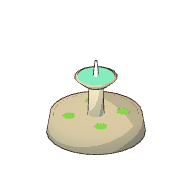
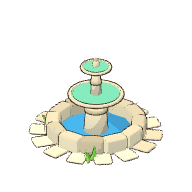
Ferme : nouvelle icône de la fontaine

Changed region(s): [[0.125, 0.2812, 0.875, 0.875]]

diff --git a/site/ferme/js/09-modeles.js b/site/ferme/js/09-modeles.js
@@ -165,7 +165,7 @@ const draco = new T.DRACOLoader(); draco.setDecoderPath('https://cdn.jsdelivr.ne
 const chargerGlbUneFois = (url) => new Promise((ok, ko) => chargeur.load(url, (gl) => ok(gl.scene), undefined, ko));
 const chargerGlb = (url, essais = 3) => chargerGlbUneFois(url).catch((e) => (essais > 1 ? new Promise((r) => setTimeout(r, 800)).then(() => chargerGlb(url, essais - 1)) : Promise.reject(e))); /* (trois essais : un modele rate ne fait plus planter le jeu plus tard, 16/10/2026) */
 const MODELES = {};
-const VERSION_MODELES = '20261101b'; /* a changer a chaque nouvel export des modeles : sinon le navigateur garde les anciens en cache */
+const VERSION_MODELES = '20261101c'; /* a changer a chaque nouvel export des modeles : sinon le navigateur garde les anciens en cache */
 /* un modele tire d'une planche : on le recentre, on le remet droit, on l'ajuste a la taille voulue (pied au sol, centre en 0) */
 /* comme gabarit, mais a une echelle donnee et centre sur un point donne (non mis a l'echelle) : les 5 niveaux d'un batiment gardent la meme echelle,
    le niveau 1 a la taille d'avant et les suivants grandissent vraiment */

diff --git a/site/ferme/index.html b/site/ferme/index.html
@@ -95,7 +95,7 @@
 <script src="js/06-temps.js?v=45bc8f81b4"></script>
 <script src="js/07-actions.js?v=e403b79966"></script>
 <script src="js/08-scene.js?v=a9f80b8661"></script>
-<script src="js/09-modeles.js?v=9d9c6681e5"></script>
+<script src="js/09-modeles.js?v=6f1c294a3d"></script>
 <script src="js/10-ciel.js?v=72eb99f225"></script>
 <script src="js/11-ferme-3d.js?v=7222053e76"></script>
 <script src="js/12-perso.js?v=a043f41cf6"></script>
